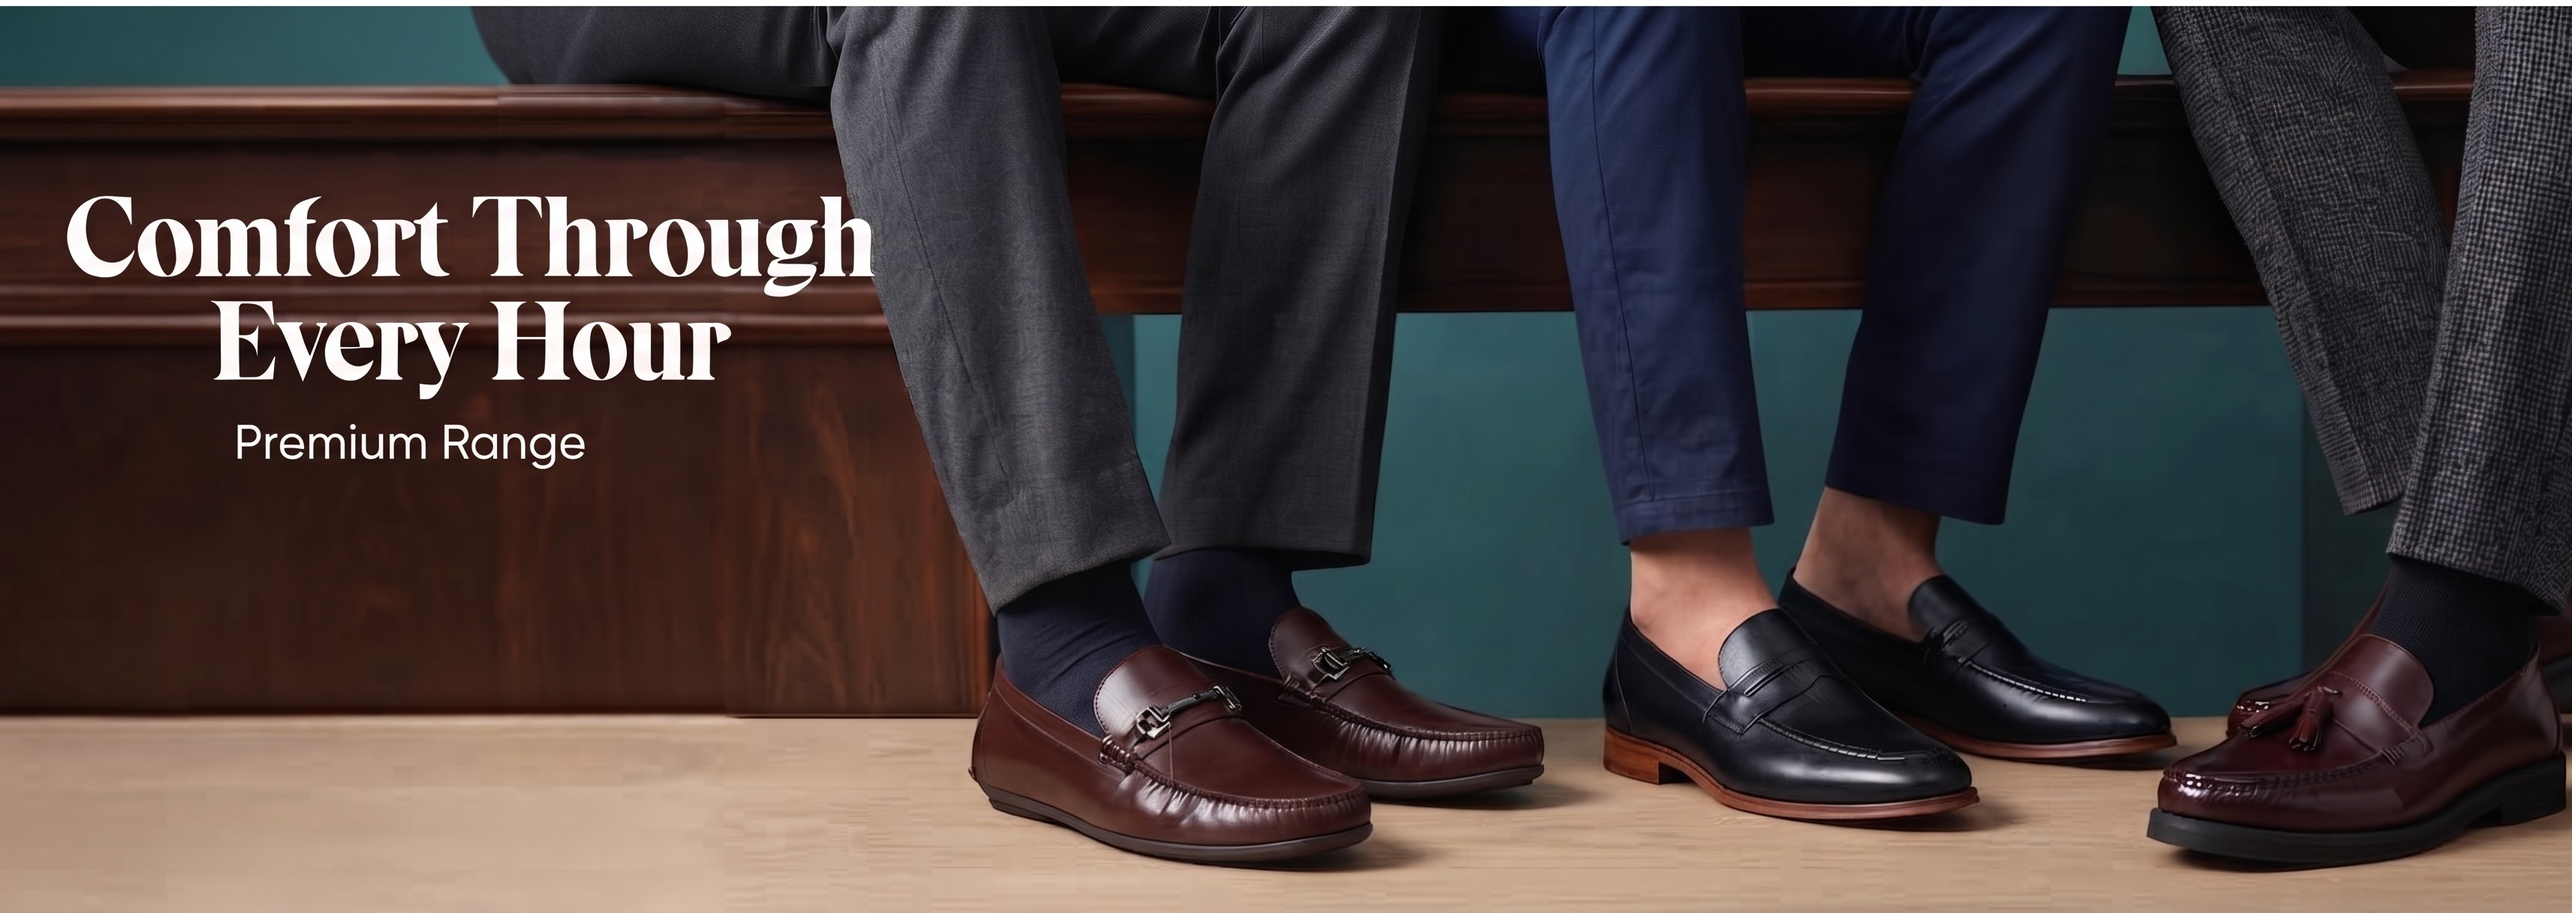
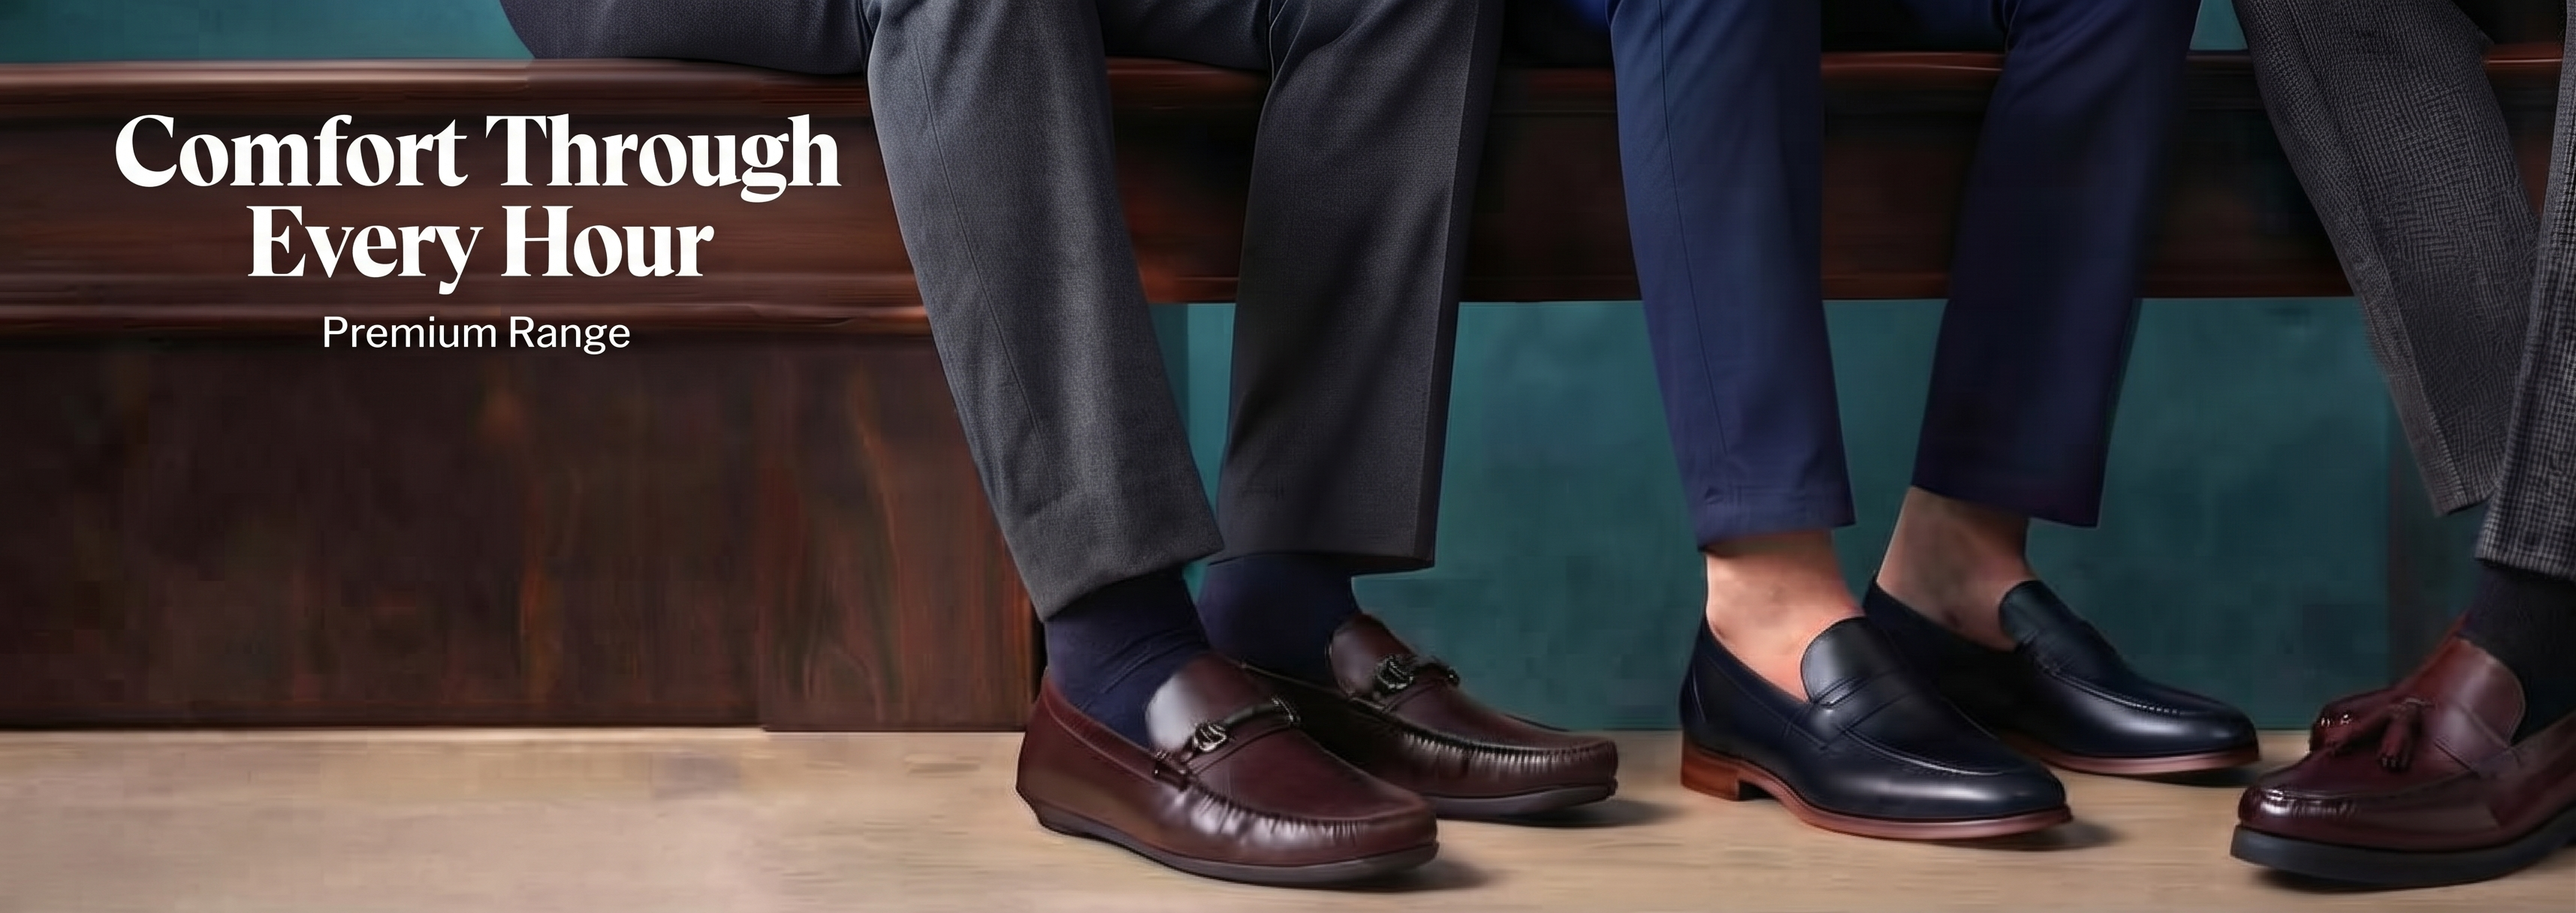
some chnages

diff --git a/app/components/Navbar.tsx b/app/components/Navbar.tsx
@@ -150,6 +150,8 @@ export default function Navbar() {
       window.location.href = '/admin';
     } else if (user.role === 'INFLUENCER') {
       window.location.href = '/influencer';
+    } else {
+      window.location.href = '/account'; // Strictly route customers to their storefront dashboard
     }
   }, []);
 
@@ -261,10 +263,13 @@ export default function Navbar() {
                   <User className="w-5 h-5" />
                   {authUser && (
                     <div className="hidden xl:flex flex-col items-start leading-none">
-                        <span className="text-xs font-semibold max-w-[100px] truncate text-amber-300">
-                          {authUser.name || authUser.email.split('@')[0]}
-                        </span>
-                        {isAdmin && <span className="text-[9px] font-bold uppercase tracking-wider text-red-400">Admin</span>}
+                        {isAdmin ? (
+                          <span className="text-xs font-bold uppercase tracking-wider text-red-400">Admin</span>
+                        ) : (
+                          <span className="text-xs font-semibold max-w-[100px] truncate text-amber-300">
+                            {authUser.name}
+                          </span>
+                        )}
                       </div>
                   )}
                 </button>
@@ -274,7 +279,7 @@ export default function Navbar() {
                     {authUser ? (
                       <>
                         <div className="px-4 py-2 border-b border-gray-100">
-                          <p className="text-xs font-bold text-gray-900 truncate">{authUser.name || authUser.email.split('@')[0]}</p>
+                          <p className="text-xs font-bold text-gray-900 truncate">{authUser.name}</p>
                           <p className="text-[10px] text-gray-500 truncate">{authUser.email}</p>
                         </div>
                         {isAdmin && (
@@ -317,13 +322,13 @@ export default function Navbar() {
                           onClick={() => openAccountModal('login')}
                           className="w-full text-left px-4 py-2 text-xs font-medium text-gray-700 hover:bg-purple-50 hover:text-purple-700 transition-colors"
                         >
-                          Sign In
-                        </button>
+                            Customer Login
+                          </button>
                         <button
                             onClick={() => openAccountModal('register')}
                             className="w-full text-left px-4 py-2 text-xs font-medium text-gray-700 hover:bg-purple-50 hover:text-purple-700 transition-colors"
                           >
-                            Create Account
+                            Customer Sign Up
                           </button>
                           <button
                             onClick={() => openAccountModal('admin')}
@@ -419,3 +424,4 @@ export default function Navbar() {
     </>
   );
 }
+

diff --git a/app/storefront/MensCollectionBanner.css b/app/storefront/MensCollectionBanner.css
@@ -162,17 +162,24 @@
     display: block !important;
   }
 
+  /* Full-width screen breakout on mobile matching Women's section */
   .mens-banner-section {
-    padding: 0 0.5rem 1.5rem 0.5rem;
+    width: 100vw;
+    position: relative;
+    left: 50%;
+    right: 50%;
+    margin-left: -50vw;
+    margin-right: -50vw;
+    padding: 0.25rem 0 1.5rem 0;
   }
   
   .mens-banner-container {
-    height: 420px;
-    padding: 1.25rem;
+    height: 230px; /* Matching Women's banner height */
+    padding: 1rem 1rem 1.5rem 1rem;
     align-items: flex-end;
     justify-content: center;
-    padding-bottom: 2.5rem;
-    border-radius: 8px;
+    border-radius: 0px; /* Sharp edges edge-to-edge */
+    box-shadow: none;
   }
 
   .mens-banner-content {
@@ -183,13 +190,13 @@
   }
 
   .mens-banner-title {
-    font-size: clamp(1.6rem, 7vw, 2.2rem);
-    margin-bottom: 0.4rem;
+    font-size: clamp(1.4rem, 6vw, 1.8rem);
+    margin-bottom: 0.3rem;
   }
 
   .mens-banner-subtitle {
-    font-size: 0.85rem;
-    margin-bottom: 1.25rem;
+    font-size: 0.8rem;
+    margin-bottom: 0.8rem;
     display: -webkit-box;
     -webkit-line-clamp: 2;
     -webkit-box-orient: vertical;
@@ -199,17 +206,18 @@
   .mens-banner-dots {
     right: 50%;
     transform: translateX(50%);
-    bottom: 0.8rem;
+    bottom: 0.6rem;
   }
 
   .btn-shop-men {
     width: auto;
-    min-width: 180px;
+    min-width: 150px;
     justify-content: center;
-    padding: 0.75rem 1.5rem;
-    font-size: 0.72rem;
-    letter-spacing: 0.15em;
-    border-radius: 4px;
+    padding: 0.55rem 1.25rem;
+    font-size: 0.65rem;
+    letter-spacing: 0.12em;
+    border-radius: 0px;
     margin-top: 0.2rem;
+    box-shadow: 0 4px 15px rgba(0, 0, 0, 0.2);
   }
 }

diff --git a/app/components/AccountModal.tsx b/app/components/AccountModal.tsx
@@ -155,7 +155,7 @@ export default function AccountModal({ isOpen, mode, onClose, onModeChange, onAu
                 }`}
                 onClick={() => onModeChange('register')}
               >
-                Sign Up
+                Customer Sign Up
               </button>
               <button
                 className={`px-3 py-1.5 rounded-full text-xs font-semibold transition-all ${
@@ -283,7 +283,7 @@ export default function AccountModal({ isOpen, mode, onClose, onModeChange, onAu
               disabled={isSubmitting}
               className="w-full bg-gradient-to-r from-[#A855F7] to-pink-600 text-white py-2.5 rounded-xl font-semibold text-sm shadow-lg hover:from-[#9333EA] hover:to-pink-700 transition-all disabled:opacity-60 mt-2"
             >
-              {isSubmitting ? 'Please wait...' : mode === 'register' ? 'Register' : 'Login'}
+              {isSubmitting ? 'Please wait...' : mode === 'register' ? 'Create Customer Account' : mode === 'login' ? 'Customer Sign In' : 'Admin Sign In'}
             </button>
           </form>
 
@@ -295,4 +295,5 @@ export default function AccountModal({ isOpen, mode, onClose, onModeChange, onAu
     </div>
   );
 }
+
 

diff --git a/app/storefront/MensCollectionBanner.tsx b/app/storefront/MensCollectionBanner.tsx
@@ -10,17 +10,17 @@ const menSlides = [
   {
     id: 1,
     image: '/assets/mens-shoes.jpg',
-    mobileImage: '/assets/mens-banner01.jpeg',
+    mobileImage: '/assets/mencollection01.jpeg',
   },
   {
     id: 2,
     image: '/assets/mens-banner3.jpg',
-    mobileImage: '/assets/mencollection.png',
+    mobileImage: '/assets/mencollection.jpg',
   },
   {
     id: 3,
     image: '/assets/mens-desktop.jpeg',
-    mobileImage: '/assets/mens.jpeg',
+    mobileImage: '/assets/mens.jpg',
   }
 ];
 
